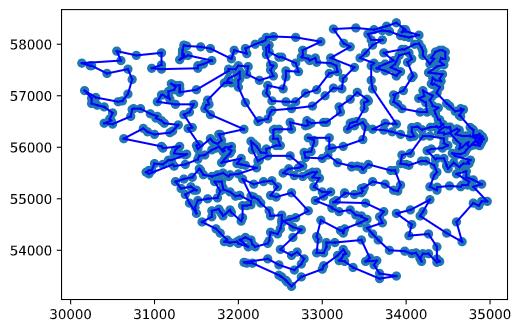
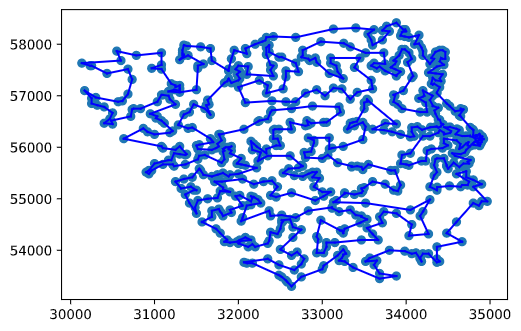
Updated images and two-opt algorithm

diff --git a/code/localsearch.py b/code/localsearch.py
@@ -326,16 +326,20 @@ class TwoOpt(Solver):
         self.heuristic_path = self.initial_path[:]
         self.heuristic_cost = self.initial_cost
         start_time = time.time()
-        for _ in range(self.iter_num):
-            improved = False
+        # for _ in range(self.iter_num):
+        locally_optimal = False
+        while not locally_optimal:
+            locally_optimal = True
             for i in range(1, tsp.path_len-3):
+                if not locally_optimal: break
                 for j in range(i + 2, tsp.path_len):
                     gain = self.gain(i, j, tsp.dist_mat)
                     if gain > 0:
-                        improved = True
                         self.swap(i, j)
                         self.heuristic_cost -= gain
-            if not improved: break
+                        # improved = True
+                        locally_optimal = False
+            # if not improved: break
         end_time = time.time()
         self.heuristic_time = end_time - start_time
                     
